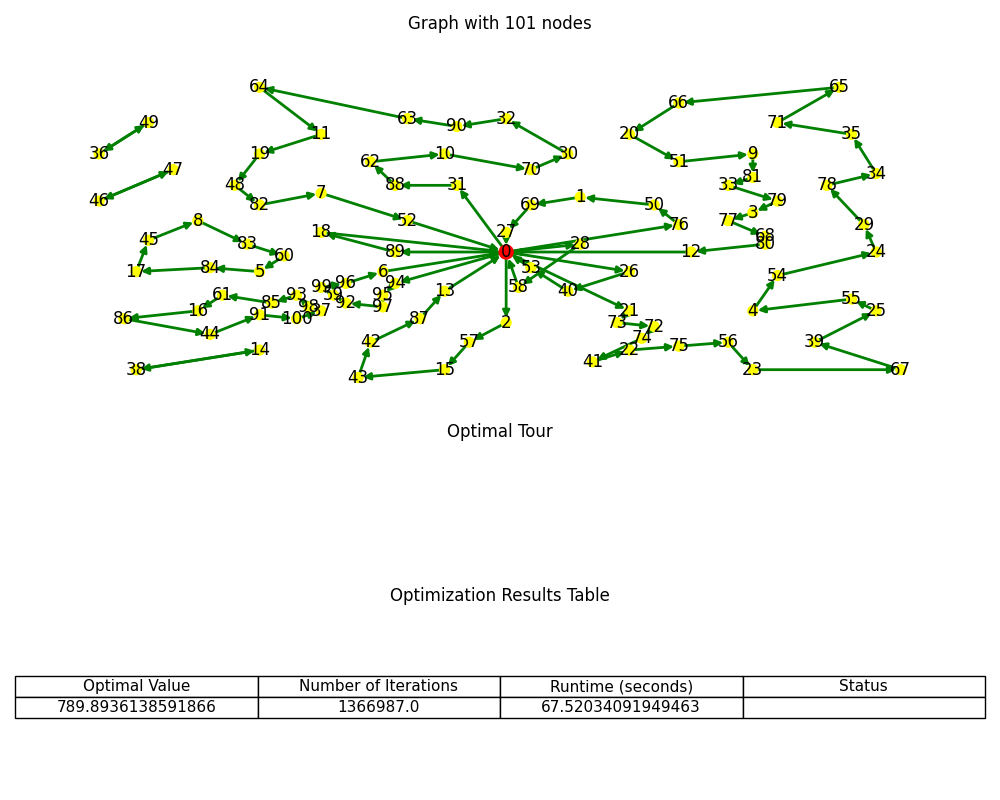
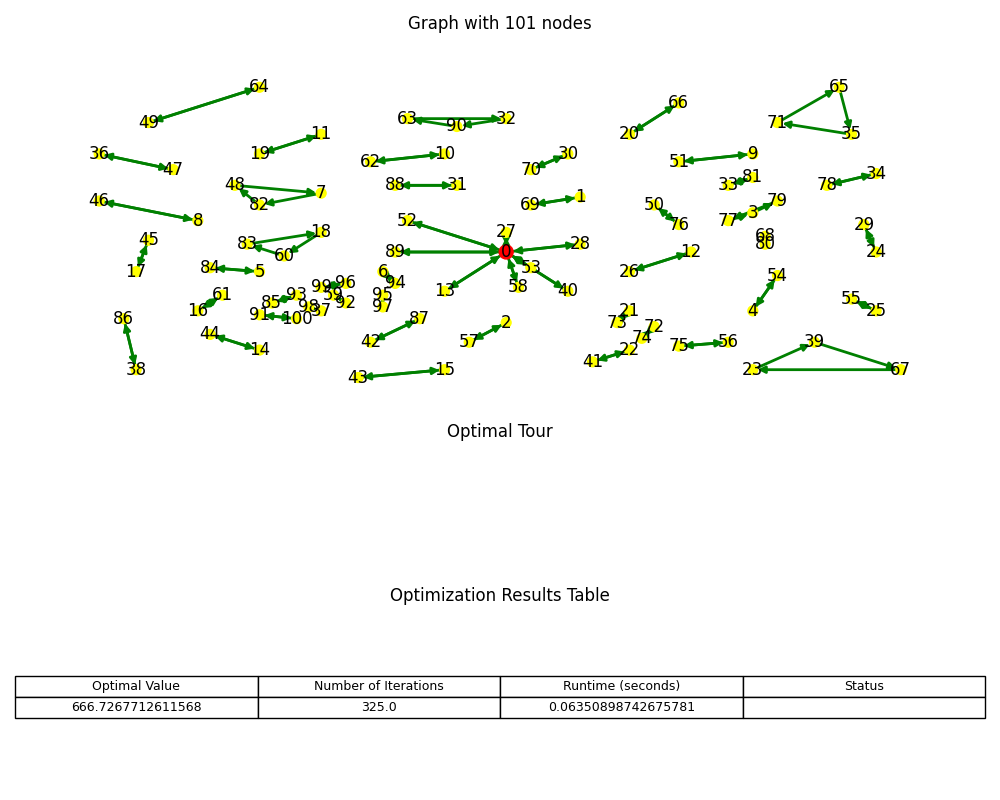
Your branch is up to date with 'origin/main'.
Changes to be committed:
	modified:   300 SECONDS RESULTS DFJ-CVRP/R101.csv.png
	modified:   300 SECONDS RESULTS DFJ-CVRP/R201.csv.png
	renamed:    DFJ_CVRP_Model.py -> Callback_DFJ.py
	modified:   Input_manager.py
new file:   __pycache__/Callback_DFJ.cpython-310.pyc

diff --git a/Callback_DFJ.py b/Callback_DFJ.py
@@ -6,6 +6,10 @@ import networkx as nx
 import gurobipy as gp
 from gurobipy import GRB
 import math
+import time
+import matplotlib.pyplot as plt
+from output_manager import visualize_graph
+
 
 # Function to create and initialize the graph
 
@@ -30,58 +34,61 @@ def numVehiclesNeededForCustomers(G,Q,q):
 
 
 
-def solve_MTZ_VRP_problem(G,depot, max_vehicles,q,num_data_points,Q,time_windows,service_times,dem_points,dataset_name_with_extension):
-    
+def find_subtours(solution_edges,m):
+    """Function to find subtours in the given set of edges"""
+    G = nx.DiGraph()
+    G.add_edges_from(solution_edges)
+    return list(nx.simple_cycles(G))
+
+
+def solve_DFJ_CVRP_problem(G,depot, max_vehicles,q,num_data_points,Q,time_windows,service_times,dem_points,dataset_name_with_extension,my_pos):
+    start_time = time.time()  # Start time of the function
+    time_limit=300
+    current_time1 = time.time()
     customers = [*range(1, num_data_points + 1)]  
     locations = [depot] + customers   
     connections = [(i, j) for i in locations for j in locations if i != j]
+    # First, solve a relaxation
 
+    m = gp.Model()
+    x = m.addVars(G.edges,vtype=GRB.BINARY)
     
-    # Model
-    m = gp.Model("DFJ_CVRP")
-    
-    # Decision variables
-    x = m.addVars(G.edges, vtype=GRB.BINARY)                                # x_ij: 1 if route from i to j is used, 0 otherwise
-    u = m.addVars(G.nodes, vtype=GRB.CONTINUOUS)
-    T = m.addVars(G.nodes, vtype=GRB.CONTINUOUS, lb=0, name="T")
-    
-    
-    # Objective: Minimize the total travel cost
-    m.setObjective(gp.quicksum(G.edges[i, j]['length'] * x[i, j] for i, j in G.edges), GRB.MINIMIZE)
-    
+    m.setObjective( gp.quicksum( G.edges[i,j]['length'] * x[i,j] for i,j in G.edges ), GRB.MINIMIZE )
     # all customers have exactly one incoming and one outgoing connection
     m.addConstrs((x.sum("*", j) == 1 for j in customers ), name="incoming")
     m.addConstrs((x.sum(i, "*") == 1 for i in customers ), name="outgoing")
-    
     # vehicle limits
     m.addConstr(x.sum(0, "*") <= max_vehicles, name="maxNumVehicles")
     m.addConstr(x.sum(0, "*") >= numVehiclesNeededForCustomers(G,Q,q),name="minNumVehicles",)
     
-     # Add the MTZ variable
-    u = m.addVars(G.nodes)
-    c = m.addConstrs(u[i] - u[j] + len(G.nodes) * x[i, j] <=
-                     len(G.nodes) - 1 for i, j in G.edges if j != depot)
-    
+    m.update()
 
+        # create a function to separate the subtour elimination constraints
+    def subtour_elimination(m, where):
+          # Check if the callback is at the right stage
+         if where == gp.GRB.Callback.MIPSOL:           
+            # Get the current solution
+            x_vals = m.cbGetSolution(m._x)
+            tour_edges = [(i, j) for i, j in m._G.edges if x_vals[i, j] > 0.5]
+            # Find subtours in the current solution
+            subtours = find_subtours(tour_edges,m)
+            # Add a subtour elimination constraint for each subtour found
+            for subtour in subtours:
+                 if len(subtour) <= m._G.number_of_nodes() / 2:
+                     m.cbLazy(gp.quicksum(m._x[i, j] for i, j in tour_edges if i in subtour and j in subtour) <= len(subtour) - 1)
 
     
+    # tell Gurobi that we will be adding (lazy) constraints
+    m.Params.lazyConstraints = 1    
+    # designate the callback routine to be subtour_elimination()
+    m._callback = subtour_elimination   
+    m._x = x
+    m._G = G
     
-    
-   
-    
-    
-    time_limit = 300  # for example, 60 seconds
-    m.setParam(GRB.Param.TimeLimit, time_limit)
-    m.setParam('LogFile', 'gurobi.log') 
-    m.optimize()
-    
-    output_file_path = f"/home/centor.ulaval.ca/ghafomoh/Downloads/ADM-7900/{dataset_name_with_extension}.sol"
-
-    m.write(output_file_path)
-
-
-    display_optimal_solution(x)
-
+ 
+    m.optimize(m._callback)
+ 
+  
     return m
 
 def display_optimal_solution(x):

diff --git a/Input_manager.py b/Input_manager.py
@@ -1,7 +1,9 @@
 import networkx as nx
 import os
 import pandas as pd
-from model import  eucl_dist,solve_VRP_TW_problem,get_optimization_results,solve_DFJ_CVRP_problem
+from model import  eucl_dist,solve_VRP_TW_problem,get_optimization_results
+from Callback_DFJ import  solve_DFJ_CVRP_problem
+
 from output_manager import visualize_graph
 
 
@@ -25,7 +27,7 @@ def main():
                     # '/home/centor.ulaval.ca/ghafomoh/Downloads/ADM-7900/Datasets/Solomon/solomon_dataset/R1/R111.csv',
                     # '/home/centor.ulaval.ca/ghafomoh/Downloads/ADM-7900/Datasets/Solomon/solomon_dataset/R1/R112.csv',
                 # 
-                     '/home/centor.ulaval.ca/ghafomoh/Downloads/ADM-7900/Datasets/Solomon/solomon_dataset/R2/R201.csv',
+                     #'/home/centor.ulaval.ca/ghafomoh/Downloads/ADM-7900/Datasets/Solomon/solomon_dataset/R2/R201.csv',
                      #'/home/centor.ulaval.ca/ghafomoh/Downloads/ADM-7900/Datasets/Solomon/solomon_dataset/R2/R202.csv',
                      #'/home/centor.ulaval.ca/ghafomoh/Downloads/ADM-7900/Datasets/Solomon/solomon_dataset/R2/R203.csv',
                      #'/home/centor.ulaval.ca/ghafomoh/Downloads/ADM-7900/Datasets/Solomon/solomon_dataset/R2/R204.csv',
